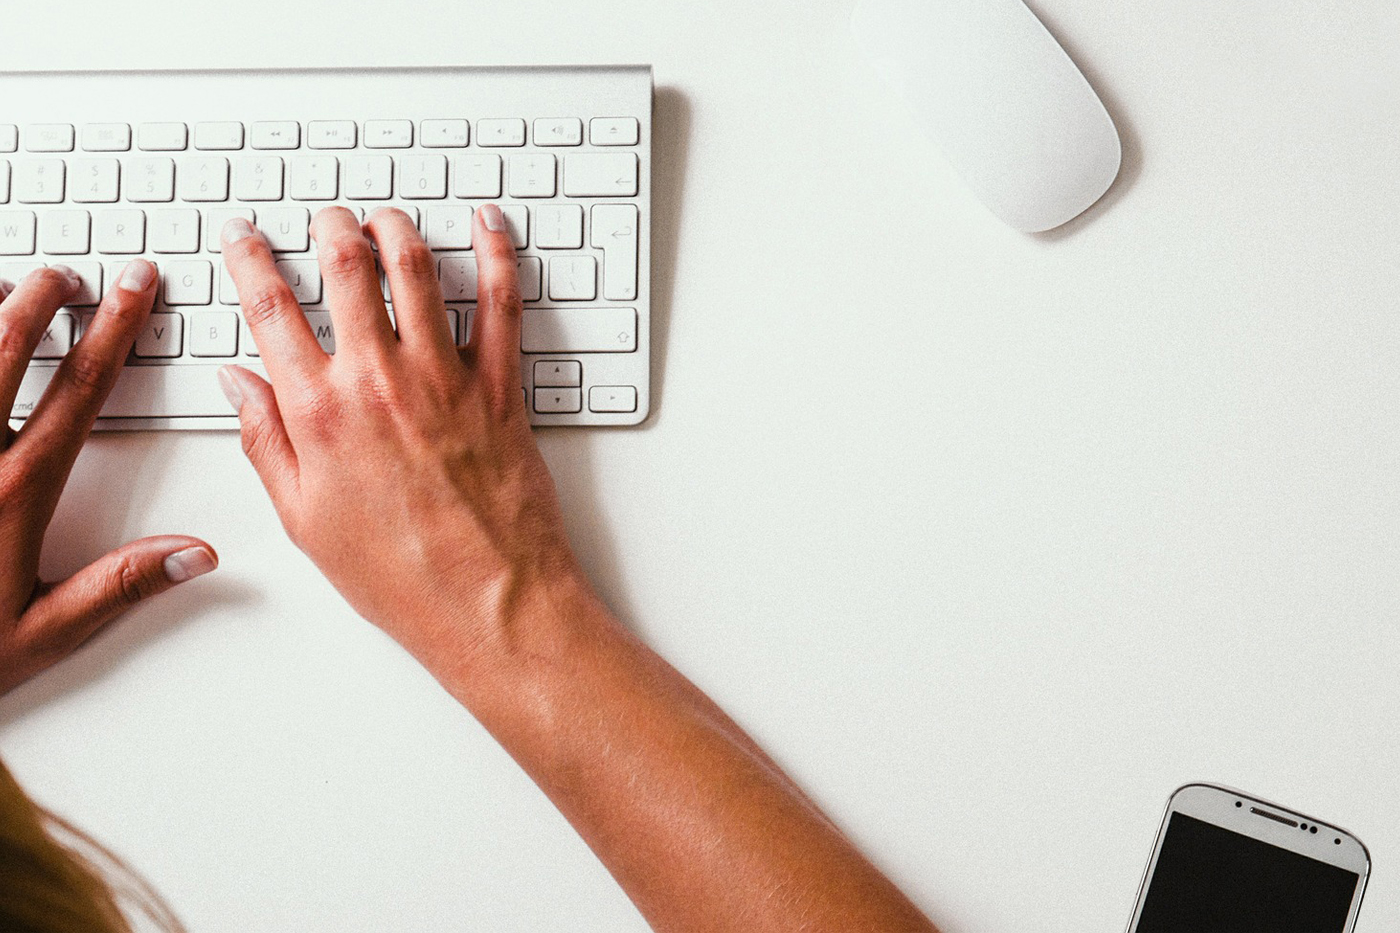
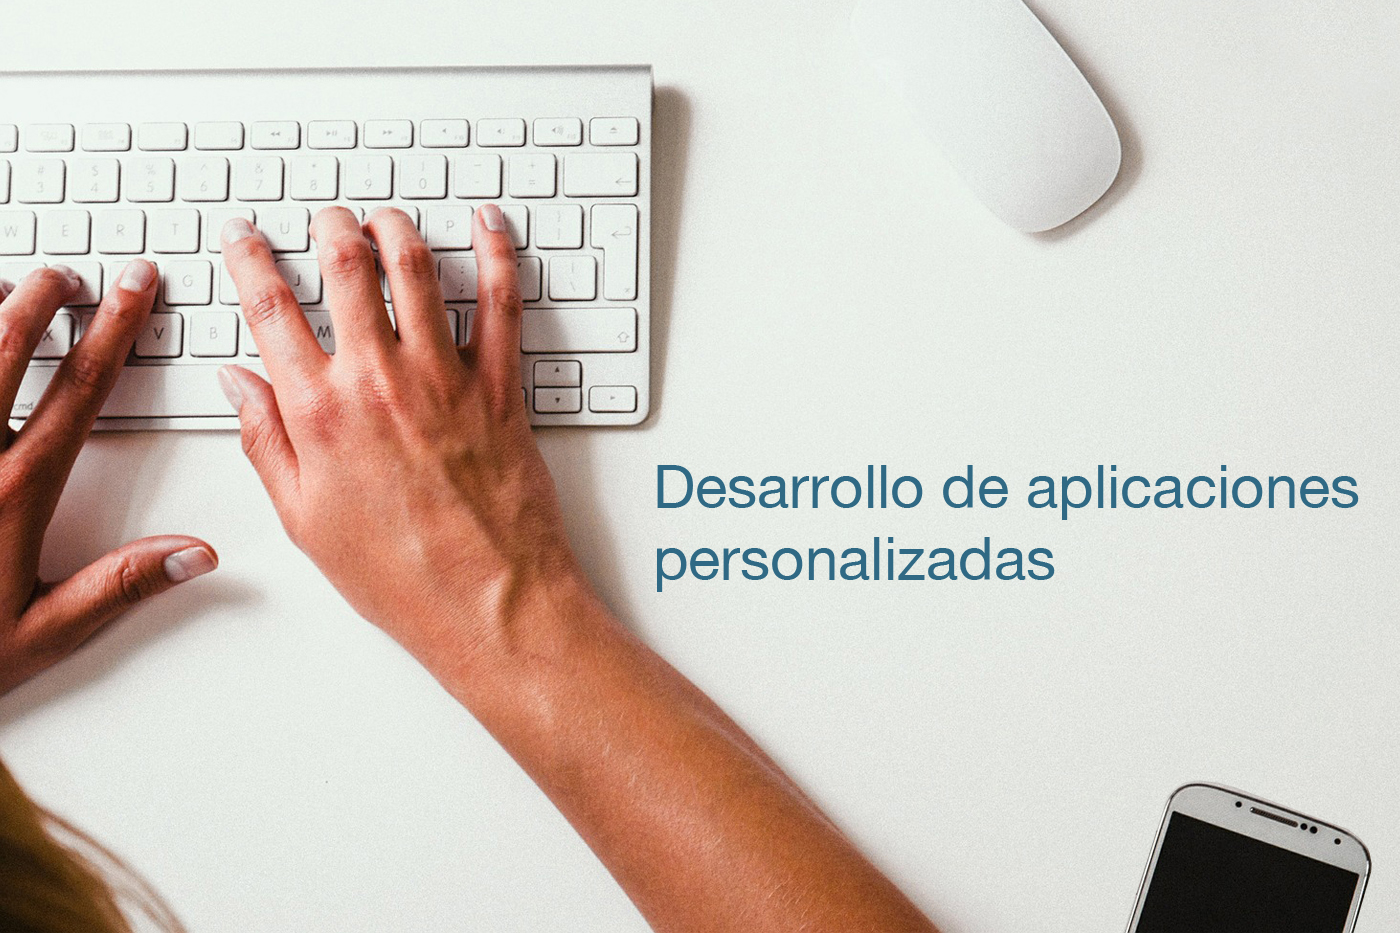
imagenes home listas

Changed region(s): [[0.4607, 0.4973, 0.9829, 0.6217]]

diff --git a/index.html b/index.html
@@ -3,7 +3,9 @@
     <meta charset="utf-8">
     <meta http-equiv="X-UA-Compatible" content="IE=edge">
     <meta name="viewport" content="width=device-width, initial-scale=1">
-
+    <meta name="description" content="Empresa de desarrollo de aplicaciones de alta complejidad, donde la opinión de los usuarios es una parte fundamental de la solución.">
+    <meta name="keywords" content="Nnodes, Software, Aplicaciones, Desarrollo, Clínica, Inventario, Sistema">
+    <meta name="author" content="Nnodes">
     <link rel="icon" href="assets/images/favicon.png" type="image/png">
 
     <title>Nnodes</title>
@@ -13,6 +15,7 @@
     <script type="text/javascript" src="assets/javascripts/jquery-2.1.1.min.js"></script>
     <script type="text/javascript" src="assets/javascripts/bootstrap.min.js"></script>
   </head>
+  
   <body>
     <nav class="navbar navbar-default navbar-fixed-top" role="navigation" style="margin-bottom: 0px;">
       <div class="container-fluid header">
@@ -55,25 +58,25 @@
   <div class="carousel-inner" role="listbox">
 
     <div class="item active">
-      <img src="./assets/images/bg3.jpg" alt="...">
+      <img src="./assets/images/bg3.jpg" alt="Transformamos tus ideas" title="Transformamos tus ideas">
       <div class="carousel-caption">
         <!--<h3 class="home-words">Desarrollo de aplicaciones de alta complejidad, donde la opinión de los usuarios es una parte fundamental de la solución.</h3>-->
       </div>
     </div>
     <div class="item">
-      <img src="./assets/images/bg4.jpg" alt="...">
+      <img src="./assets/images/bg1.jpg" alt="Desarrollo de aplicaciones personalizadas" title="Desarrollo de aplicaciones personalizadas">
       <div class="carousel-caption">
         <!--<h3 class="home-words">Desarrollo de aplicaciones de alta complejidad, donde la opinión de los usuarios es una parte fundamental de la solución.</h3>-->
       </div>
     </div>
     <div class="item">
-      <img src="./assets/images/bg2.jpg" alt="...">
+      <img src="./assets/images/bg2.jpg" alt="Procesos colaborativos atendiendo tus necesidades" title="Procesos colaborativos atendiendo tus necesidades">
       <div class="carousel-caption">
         <!--<h3 class="home-words">Desarrollo de aplicaciones de alta complejidad, donde la opinión de los usuarios es una parte fundamental de la solución.</h3>-->
       </div>
     </div>
     <div class="item">
-      <img src="./assets/images/bg1.jpg" alt="...">
+      <img src="./assets/images/bg4.jpg" alt="Nuestra misión es ser la solución a tus problemas" title="Nuestra misión es ser la solución a tus problemas">
       <div class="carousel-caption">
         <!--<h3 class="home-words">Desarrollo de aplicaciones de alta complejidad, donde la opinión de los usuarios es una parte fundamental de la solución.</h3>-->
       </div>
@@ -81,17 +84,17 @@
   </div>
 
 </div>
-
+<!--
     <div class="slider_bg">
       <div class="wrapper">
         <div class="slider" id="home">
           <div class="slider_text">
-            <h2>Somos los más pulentos</h2>
-            <h3>Todo lo hacemos terrible de bien</h3>
+            <h2></h2>
+            <h3></h3>
           </div>
         </div>
       </div>
-
+-->
     <!-- <div class="footer navbar navbar-fixed-bottom" style="display:none">
       <div class="container">
         <p class="text-muted">&copy; Nnodes, todos los derechos reservados.</p>

diff --git a/about.html b/about.html
@@ -3,16 +3,19 @@
     <meta charset="utf-8">
     <meta http-equiv="X-UA-Compatible" content="IE=edge">
     <meta name="viewport" content="width=device-width, initial-scale=1">
-
+    <meta name="description" content="Empresa de desarrollo de aplicaciones de alta complejidad, donde la opinión de los usuarios es una parte fundamental de la solución. Quiénes Somos.">
+    <meta name="keywords" content="Nnodes, Software, Aplicaciones, Desarrollo, Clínica, Inventario, Sistema">
+    <meta name="author" content="Nnodes">
     <link rel="icon" href="assets/images/favicon.png" type="image/png">
 
-    <title>Nnodes</title>
+    <title>Nnodes - Quiénes Somos</title>
 
     <link href="assets/stylesheets/bootstrap.min.css" rel="stylesheet">
     <link href="assets/stylesheets/style.css" rel="stylesheet">
     <script type="text/javascript" src="assets/javascripts/jquery-2.1.1.min.js"></script>
     <script type="text/javascript" src="assets/javascripts/bootstrap.min.js"></script>
   </head>
+  
   <body>
     <nav class="navbar navbar-default navbar-fixed-top" role="navigation">
   <div class="container-fluid header">

diff --git a/contact.html b/contact.html
@@ -3,16 +3,19 @@
     <meta charset="utf-8">
     <meta http-equiv="X-UA-Compatible" content="IE=edge">
     <meta name="viewport" content="width=device-width, initial-scale=1">
-
+    <meta name="description" content="Empresa de desarrollo de aplicaciones de alta complejidad, donde la opinión de los usuarios es una parte fundamental de la solución. Contáctanos.">
+    <meta name="keywords" content="Nnodes, Software, Aplicaciones, Desarrollo, Clínica, Inventario, Sistema">
+    <meta name="author" content="Nnodes">
     <link rel="icon" href="assets/images/favicon.png" type="image/png">
 
-    <title>Nnodes</title>
+    <title>Nnodes - Contacto</title>
 
     <link href="assets/stylesheets/bootstrap.min.css" rel="stylesheet">
     <link href="assets/stylesheets/style.css" rel="stylesheet">
     <script type="text/javascript" src="assets/javascripts/jquery-2.1.1.min.js"></script>
     <script type="text/javascript" src="assets/javascripts/bootstrap.min.js"></script>
   </head>
+  
   <body>
     <nav class="navbar navbar-default navbar-fixed-top" role="navigation">
       <div class="container-fluid header">

diff --git a/experience.html b/experience.html
@@ -3,16 +3,19 @@
     <meta charset="utf-8">
     <meta http-equiv="X-UA-Compatible" content="IE=edge">
     <meta name="viewport" content="width=device-width, initial-scale=1">
-
+    <meta name="description" content="Empresa de desarrollo de aplicaciones de alta complejidad, donde la opinión de los usuarios es una parte fundamental de la solución. Experiencia.">
+    <meta name="keywords" content="Nnodes, Software, Aplicaciones, Desarrollo, Clínica, Inventario, Sistema">
+    <meta name="author" content="Nnodes">
     <link rel="icon" href="assets/images/favicon.png" type="image/png">
 
-    <title>Nnodes</title>
+    <title>Nnodes - Experiencia</title>
 
     <link href="assets/stylesheets/bootstrap.min.css" rel="stylesheet">
     <link href="assets/stylesheets/style.css" rel="stylesheet">
     <script type="text/javascript" src="assets/javascripts/jquery-2.1.1.min.js"></script>
     <script type="text/javascript" src="assets/javascripts/bootstrap.min.js"></script>
   </head>
+  
   <body>
     <nav class="navbar navbar-default navbar-fixed-top" role="navigation">
   <div class="container-fluid header">
